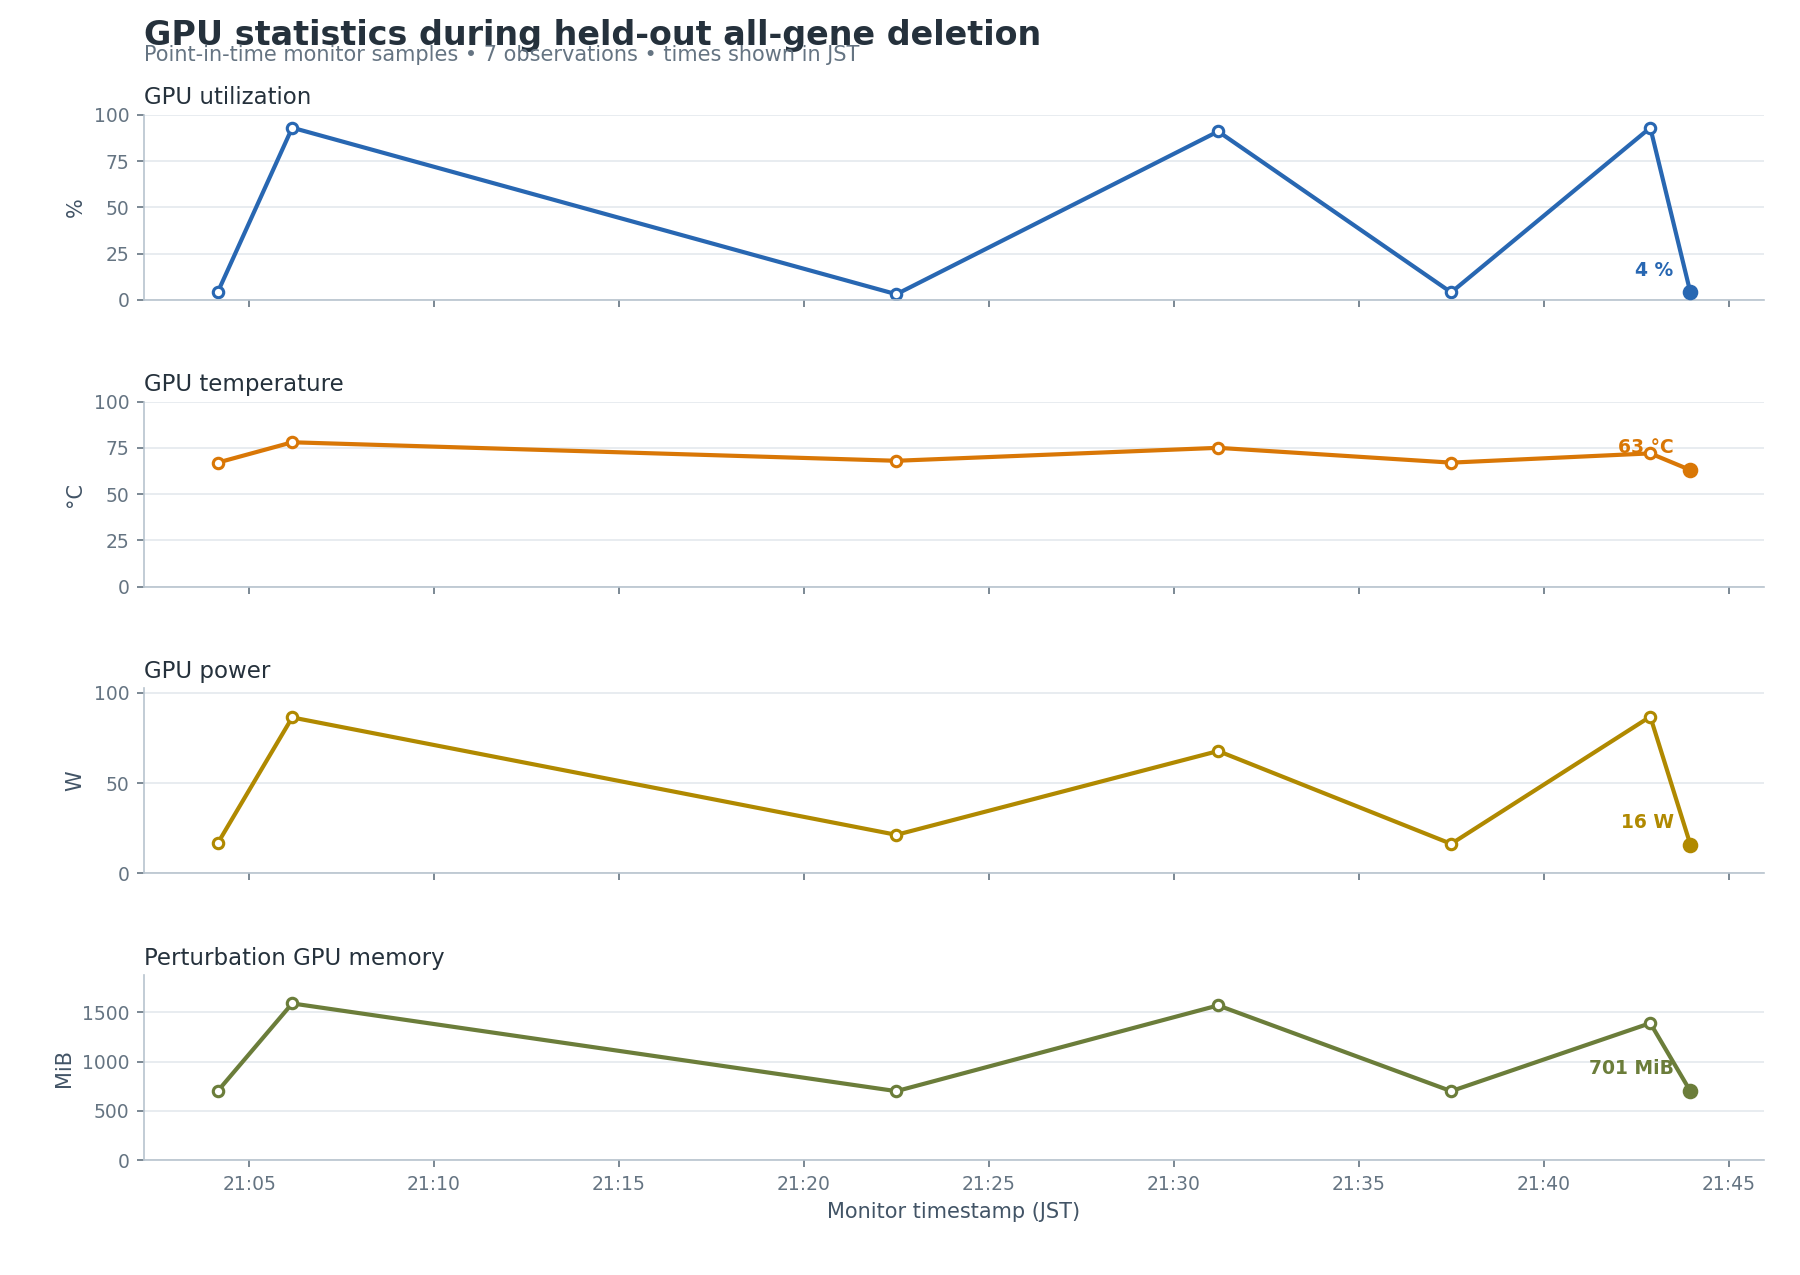
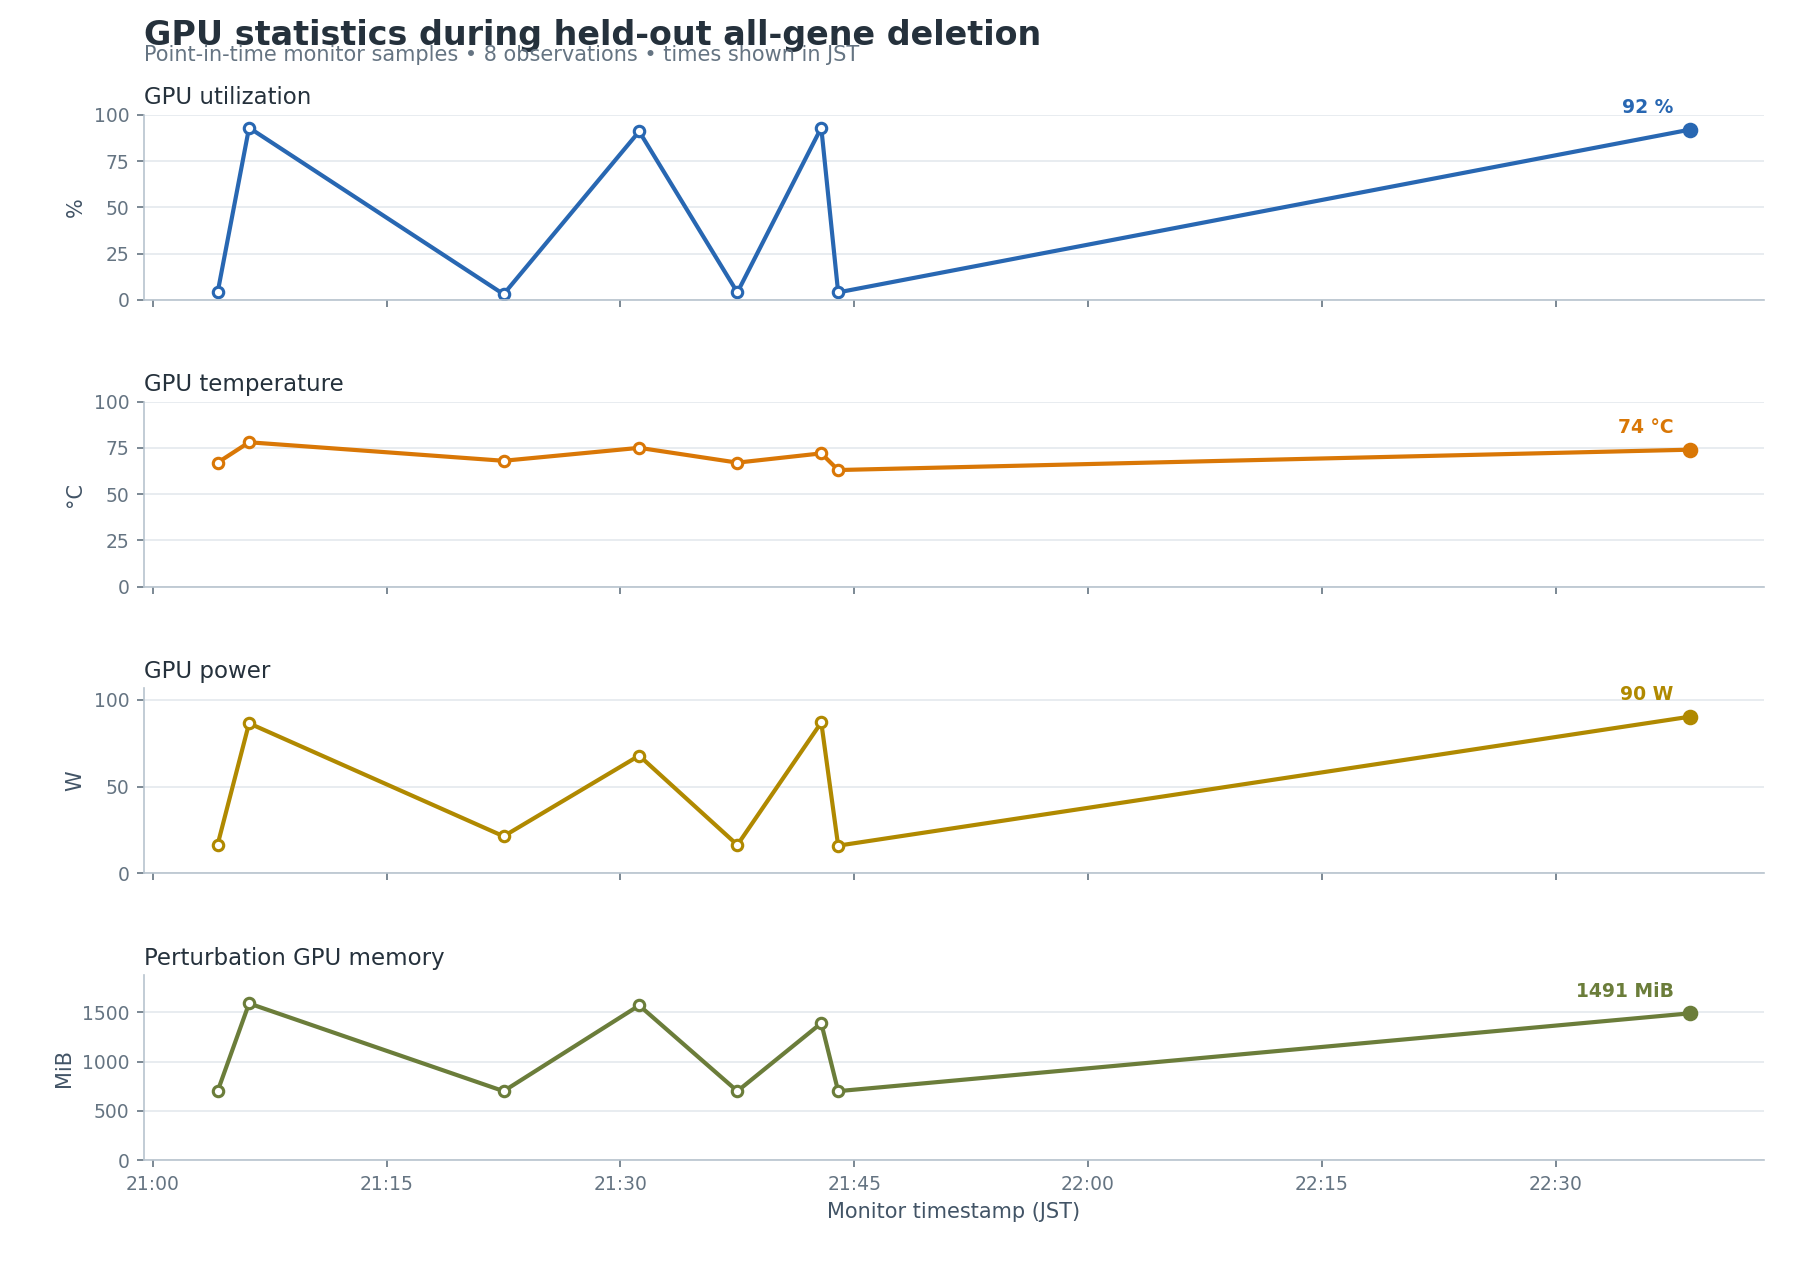
monitor: update perturbation status 2026-07-17 22:38 JST

diff --git a/current_workflow/monitoring/GPU_PROGRESS_REPORT.md b/current_workflow/monitoring/GPU_PROGRESS_REPORT.md
@@ -14,6 +14,39 @@ Newest snapshots appear first. Existing entries are retained below; the machine-
 
 ---
 
+## Snapshot — 2026-07-17T22:38:39+09:00
+
+Run status: **RUNNING**
+
+Overall cell progress: **306 / 3,379 (9.06%)**
+
+### GPU and memory
+
+| Metric | Current value |
+|---|---:|
+| GPU | NVIDIA GB10 |
+| GPU utilization | 92% |
+| GPU temperature | 74 C |
+| GPU power | 90.3 W |
+| Perturbation GPU memory | 1491 MiB |
+| System memory used | 38.7 GiB |
+| System memory available | 81.0 GiB |
+| Swap used | 0.0 GiB |
+
+### Perturbation progress
+
+| Source | Cells written | Shards complete | Raw files |
+|---|---:|---:|---:|
+| LUSC | 306 / 560 (54.64%) | 12 / 23 | 613 |
+| LUAD | 0 / 1,411 (0.00%) | 0 / 57 | 0 |
+| NORMAL | 0 / 1,408 (0.00%) | 0 / 57 | 0 |
+
+Statistics are generated after all shards for a source state complete. Cell
+counts include only cells with both raw checkpoint batches present.
+
+
+---
+
 ## Snapshot — 2026-07-17T21:43:58+09:00
 
 Run status: **RUNNING**
